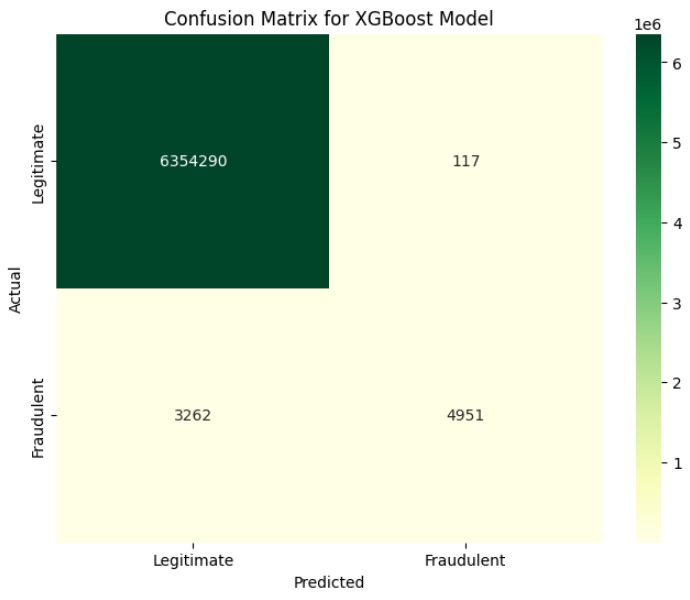
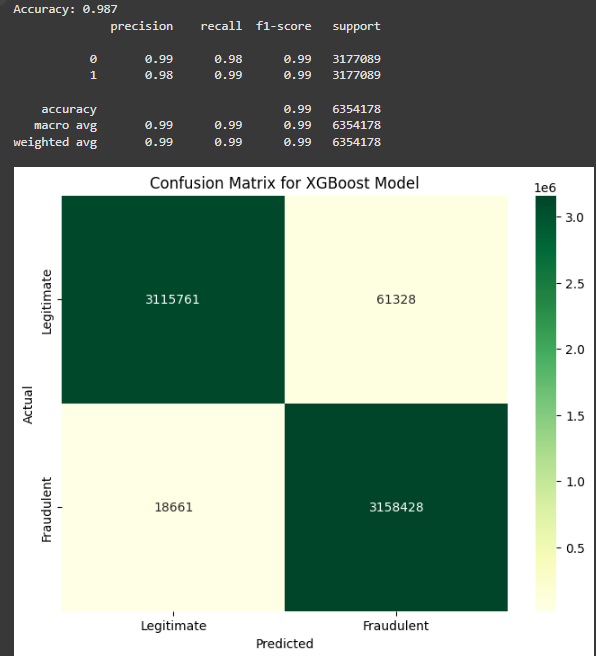
update xgb with resample

diff --git a/V2-xGboost/v2_xgboost.py b/V2-xGboost/v2_xgboost.py
@@ -1,30 +1,56 @@
 import pandas as pd
 import seaborn as sns
 import matplotlib.pyplot as plt
-from xgboost import XGBClassifier,plot_tree
-from sklearn.metrics import confusion_matrix,accuracy_score
+from xgboost import XGBClassifier, plot_tree
+from sklearn.metrics import confusion_matrix, accuracy_score, classification_report
 from sklearn.preprocessing import LabelEncoder
+from sklearn.model_selection import train_test_split
+from imblearn.combine import SMOTETomek
+import warnings
+
+# Suppress warnings
+warnings.filterwarnings("ignore")
 
 data = pd.read_csv('onlinefraud.csv')
-data = data.drop(columns=['step', 'nameOrig', 'nameDest', 'isFlaggedFraud'])
+data = data.drop(columns=['nameOrig', 'nameDest', 'isFlaggedFraud'])
 
-# Encode(convert to numeric)
 le = LabelEncoder()
 data['type'] = le.fit_transform(data['type'])
 
 X = data.drop(columns=['isFraud'])
 y = data['isFraud']
 
-# Train the XGBoost model and predict
-xgb_model = XGBClassifier(max_depth=3, min_child_weight=1000, subsample=0.8 ,use_label_encoder=False, eval_metric='logloss')
-xgb_model.fit(X, y)
-y_pred = xgb_model.predict(X)
+X_train, X_test, y_train, y_test = train_test_split(X, y, test_size=0.5, stratify=y, random_state=0)
 
-accuracy = accuracy_score(y, y_pred)
+# Apply SMOTETomek for balancing
+smote_tomek = SMOTETomek(random_state=0)
+X_train_resampled, y_train_resampled = smote_tomek.fit_resample(X_train, y_train)
+X_test_resampled, y_test_resampled = smote_tomek.fit_resample(X_test, y_test)
+
+scale_pos_weight = len(y_train_resampled[y_train_resampled == 0]) / len(y_train_resampled[y_train_resampled == 1])
+
+# Train the XGBoost model with hyperparameters
+xgb_model = XGBClassifier(
+    max_depth=4,  #default 6
+    learning_rate=0.1, #default 0.3
+    n_estimators=50, #default 100
+    min_child_weight=10, #default 1
+    subsample=0.8, #default 1 fraction of samples used for building each tree.
+    colsample_bytree=0.8, #default 1 fraction of features used for building each tree
+    scale_pos_weight=scale_pos_weight, #default 1
+    use_label_encoder=False,
+    eval_metric='logloss',
+    random_state=0
+)
+xgb_model.fit(X_train_resampled, y_train_resampled)
+
+y_pred = xgb_model.predict(X_test_resampled)
+
+accuracy = accuracy_score(y_test_resampled, y_pred)
 print(f"Accuracy: {accuracy:.3f}")
 
 # Confusion matrix
-conf_matrix = confusion_matrix(y, y_pred)
+conf_matrix = confusion_matrix(y_test_resampled, y_pred)
 plt.figure(figsize=(8, 6))
 sns.heatmap(conf_matrix, annot=True, fmt='d', cmap='YlGn',
             xticklabels=['Legitimate', 'Fraudulent'],
@@ -42,6 +68,9 @@ plt.xlabel('Importance')
 plt.ylabel('Feature')
 plt.show()
 
-plt.figure(figsize=(30, 10))
-plot_tree(xgb_model)
-plt.show()
+from xgboost import to_graphviz
+import graphviz
+
+dot = to_graphviz(xgb_model)
+dot.format = 'png'
+dot.render('xgb_tree')
